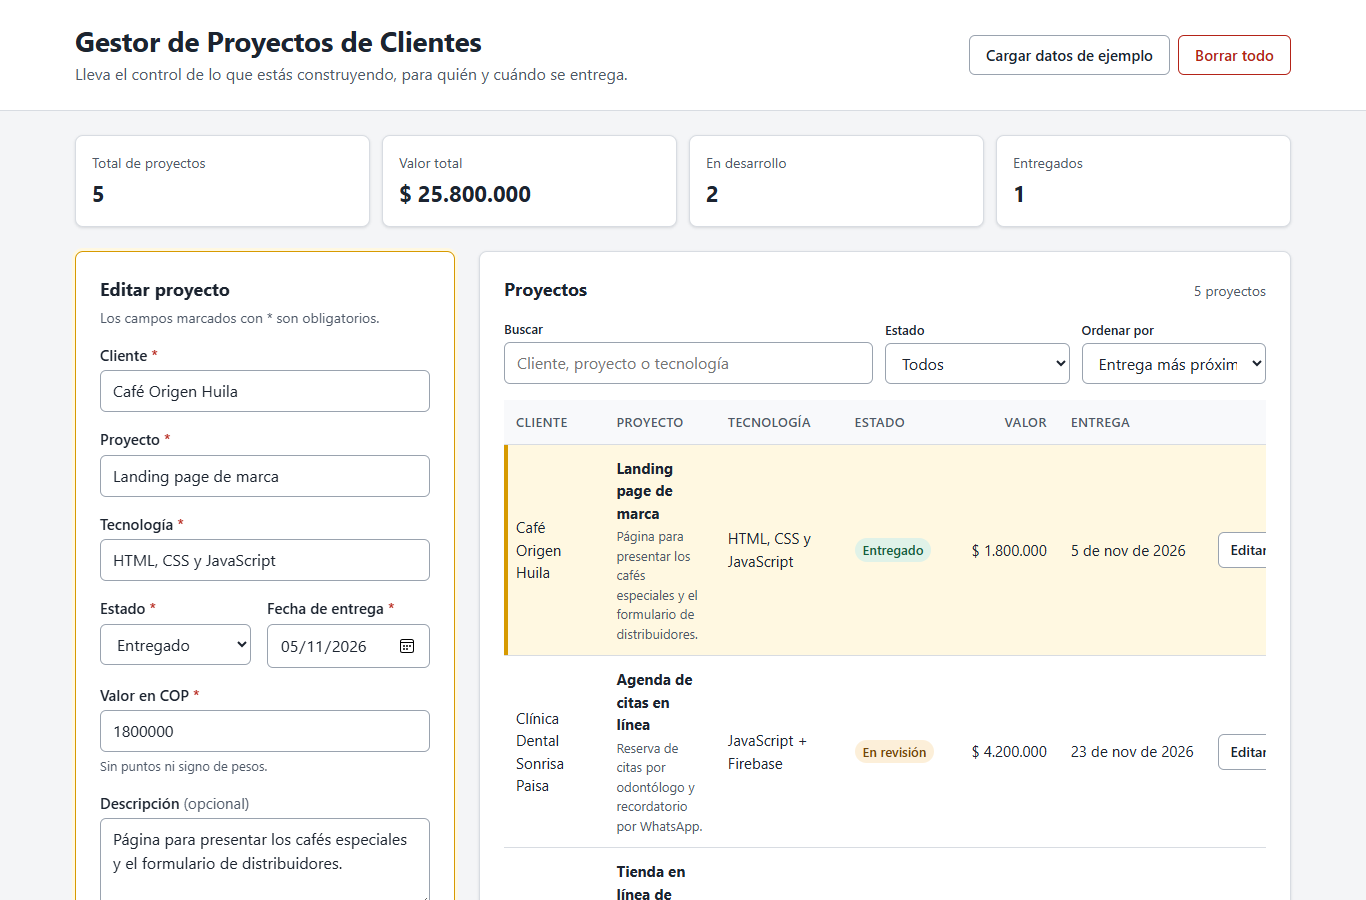
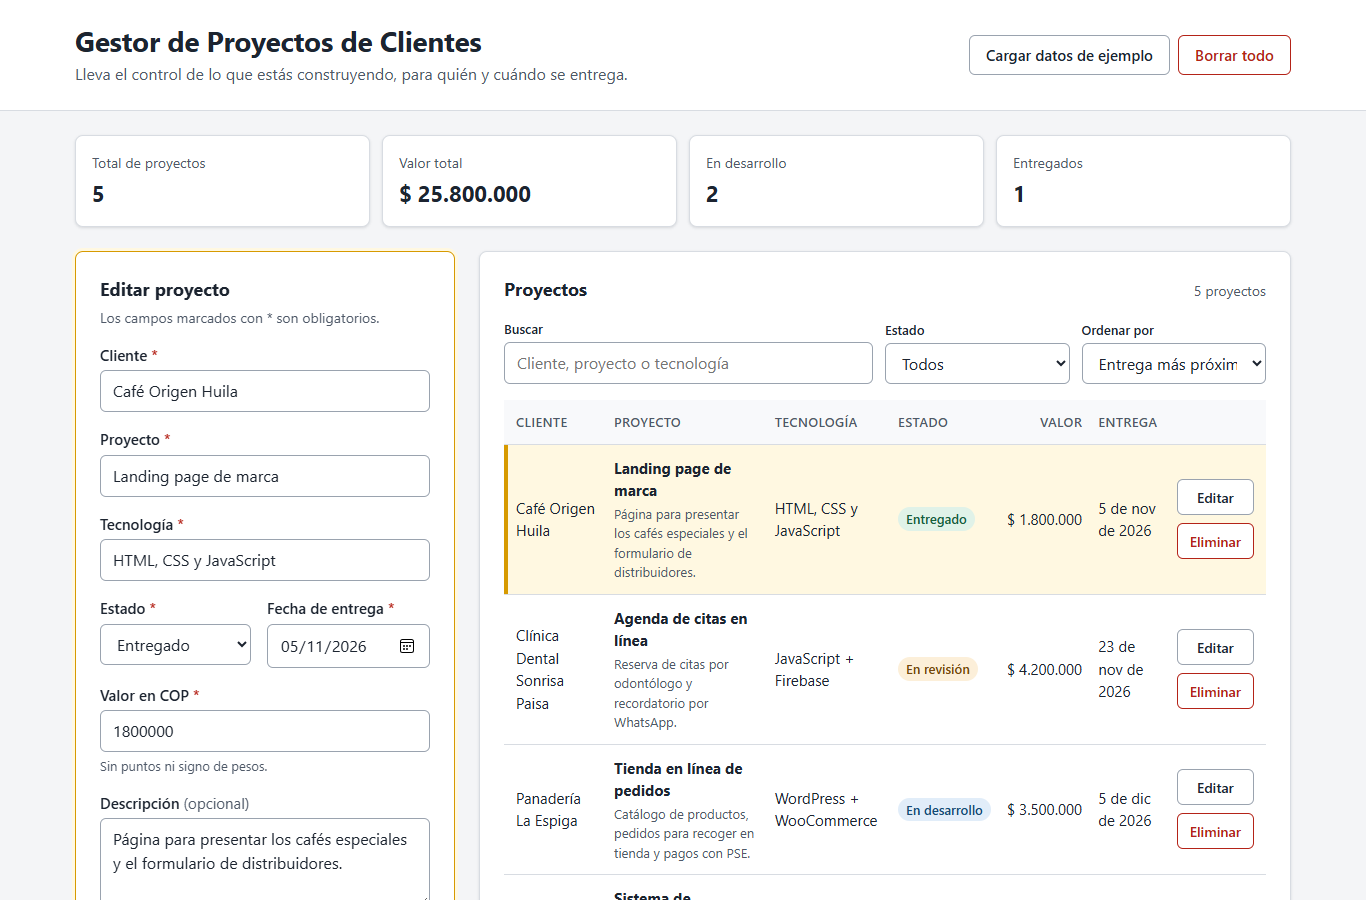
Tabla: sin columna de acciones cortada en escritorio
El cambio a tarjetas ahora depende del ancho real de la tabla (container
query) y no del de la pantalla; con espacio suficiente se compacta la
tabla y se apilan Editar / Eliminar. Capturas actualizadas.

diff --git a/css/estilos.css b/css/estilos.css
@@ -427,6 +427,9 @@ textarea {
 
 .tabla-contenedor {
   overflow-x: auto;
+  /* La tabla decide si se ve como tabla o como tarjetas según el espacio que
+     tiene ella misma (container query), no según el ancho de la pantalla. */
+  container-type: inline-size;
 }
 
 .tabla {
@@ -460,10 +463,6 @@ textarea {
 .tabla__numero {
   text-align: right !important;
   font-variant-numeric: tabular-nums;
-  white-space: nowrap;
-}
-
-.tabla__fecha {
   white-space: nowrap;
 }
 
@@ -649,9 +648,11 @@ textarea {
   }
 }
 
-/* ---------- Tabla en móvil: cada fila se vuelve una tarjeta ---------- */
+/* ---------- Tabla angosta: cada fila se vuelve una tarjeta ----------
+   Pasa en el celular y también en escritorio cuando el formulario deja poco
+   espacio: así la columna de acciones nunca queda cortada. */
 
-@media (max-width: 719px) {
+@container (width < 46rem) {
   .tabla thead {
     position: absolute;
     width: 1px;
@@ -705,6 +706,37 @@ textarea {
 
   .tabla td.tabla__celda-acciones .tabla__acciones {
     width: 100%;
+  }
+}
+
+/* ---------- Tabla ancha ----------
+   Son 7 columnas: se reduce el relleno lateral y los botones Editar / Eliminar
+   se apilan para que todo quepa sin desplazamiento horizontal. */
+
+@container (width >= 46rem) {
+  .tabla th,
+  .tabla td {
+    padding-left: var(--espacio-2);
+    padding-right: var(--espacio-2);
+  }
+
+  .tabla th:first-child,
+  .tabla td:first-child {
+    padding-left: var(--espacio-3);
+  }
+
+  .tabla th:last-child,
+  .tabla td:last-child {
+    padding-right: var(--espacio-3);
+  }
+
+  .tabla__proyecto {
+    min-width: 9rem;
+  }
+
+  .tabla__acciones {
+    flex-direction: column;
+    align-items: stretch;
   }
 }
 

diff --git a/js/interfaz.js b/js/interfaz.js
@@ -148,7 +148,7 @@ const Interfaz = {
 
   /** El nombre del proyecto va con su descripción debajo, si tiene. */
   crearCeldaProyecto(proyecto) {
-    const celda = this.crearCelda('Proyecto', '');
+    const celda = this.crearCelda('Proyecto', '', 'tabla__proyecto');
     const contenido = document.createElement('div');
     const nombre = document.createElement('strong');
     nombre.textContent = proyecto.proyecto;
